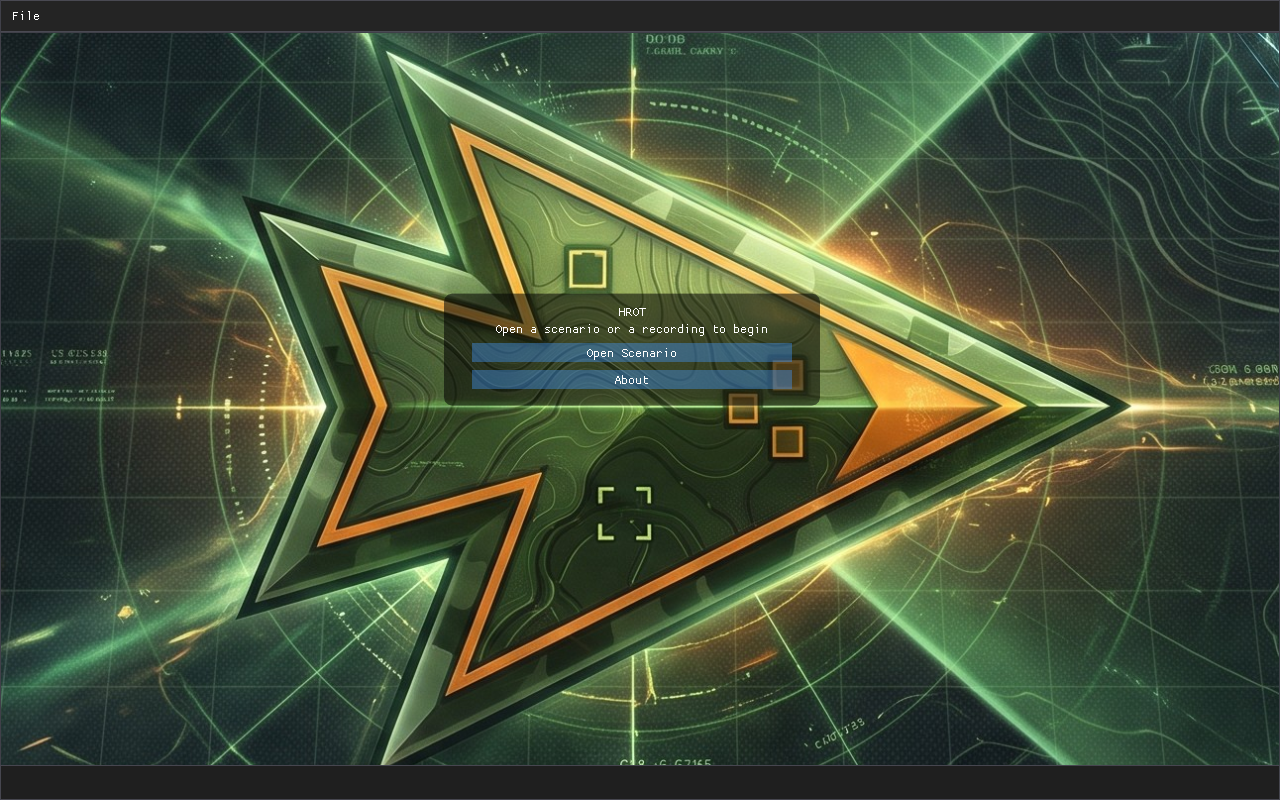
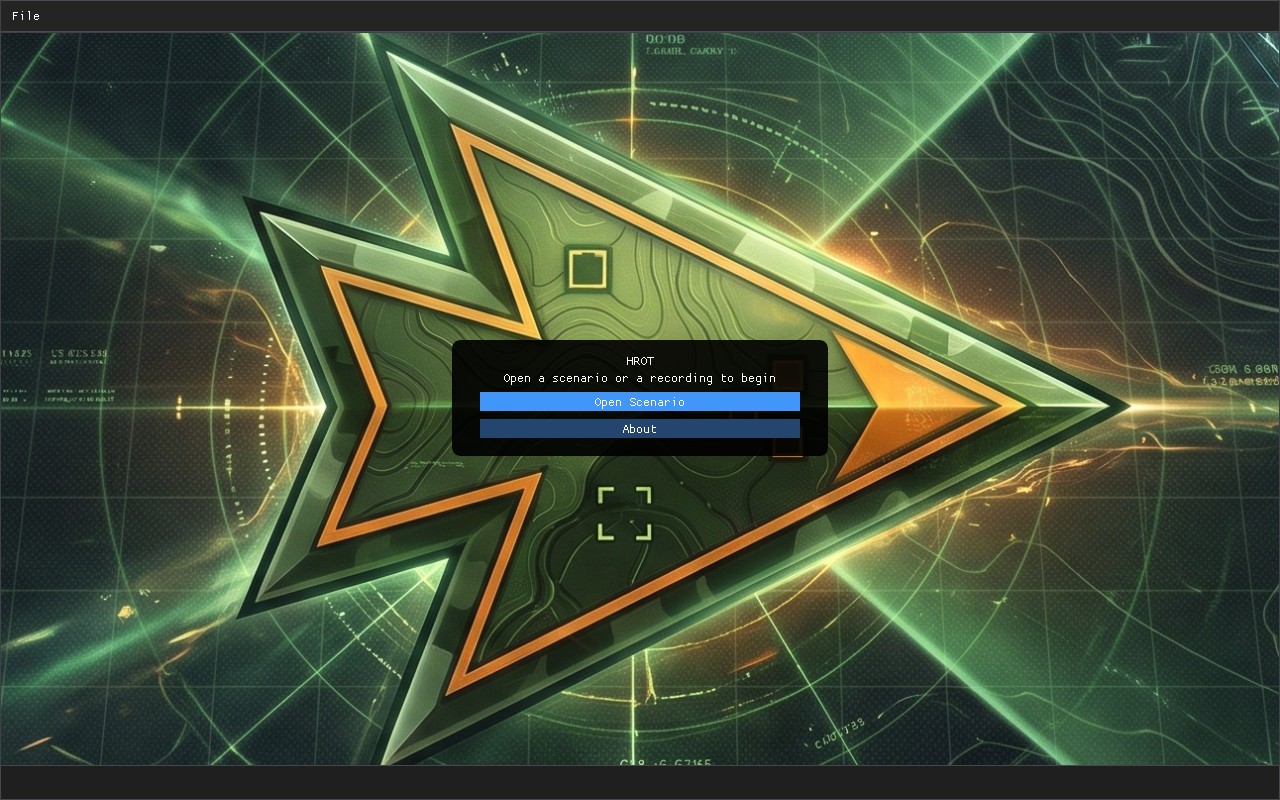
start screen: the menu panel centred on the visible surface (both axes, the status bar excluded) and near-opaque (alpha 0.9, opaque buttons) — user feedback on CE-4112
Claude-Session: https://claude.ai/code/session_01LUo7ZUvjqJtXwv1B39x11y

Changed region(s): [[0.3438, 0.3438, 0.6562, 0.5938]]

diff --git a/FDP/Engine/Fdp.Presentation/ImGui/WindowManager/StartSurfaceWindow.cs b/FDP/Engine/Fdp.Presentation/ImGui/WindowManager/StartSurfaceWindow.cs
@@ -27,9 +27,12 @@ public sealed class StartSurfaceWindow : ManagedWindow
     private readonly GlobalMenuRegistry _menu;
     private readonly Func<StartVariant> _variant;
 
-    public StartSurfaceWindow(GlobalMenuRegistry menu, Func<StartVariant> variant)
+    /// <param name="bottomInset">⭐ What covers the surface's bottom edge (the status bar's height, <c>wm.StatusBar.Height</c>): the menu panel is centred on
+    /// the VISIBLE area above it. Null = nothing covers it.</param>
+    public StartSurfaceWindow(GlobalMenuRegistry menu, Func<StartVariant> variant, Func<float>? bottomInset = null)
         : base(WindowId, "Start", WindowManager.StartPerspectiveName, WindowScope.PerspectiveBound)
     {
+        _bottomInset = bottomInset;
         _menu = menu ?? throw new ArgumentNullException(nameof(menu));
         _variant = variant ?? throw new ArgumentNullException(nameof(variant));
         IsOpen = true;
@@ -75,8 +78,9 @@ public sealed class StartSurfaceWindow : ManagedWindow
         return new CoverRect(scale, x, y, w, h, -x / w, -y / h, (winW - x) / w, (winH - y) / h);
     }
 
-    /// <summary>⭐ A dark band behind the menu block: the wallpaper's centre is bright (the arrow), so the white title and the buttons need it. One alpha.</summary>
-    public const float MenuBandAlpha = 0.55f;
+    /// <summary>⭐ A dark panel behind the menu block: the wallpaper's centre is bright (the arrow), so the white title and the buttons need it. One alpha.
+    /// 🔒 User, <c>2026-10-30</c>: <i>"the transparency need to be much less, too much of the background blends in the text and buttons"</i> — ⛔ was 0.55.</summary>
+    public const float MenuBandAlpha = 0.9f;
 
     private static nint _wallpaperTexture;
     private static int _wallpaperW, _wallpaperH;
@@ -110,40 +114,67 @@ public sealed class StartSurfaceWindow : ManagedWindow
         Gui.GetWindowDrawList().AddImage(wp.Id, pos, pos + size, new Vector2(c.U0, c.V0), new Vector2(c.U1, c.V1));
     }
 
+    /// <summary>The menu panel's padding around its items (px).</summary>
+    private const float PanelPadX = 28f, PanelPadY = 14f;
+
+    /// <summary>The block's height as last DRAWN (the title, the line, the buttons) — measured, so the centring is exact from the second frame on.</summary>
+    private float _blockHeight;
+    private readonly Func<float>? _bottomInset;
+
+    /// <summary>⭐ The menu panel's last drawn rect, in screen pixels (a rail checks it is centred on the surface).</summary>
+    public (Vector2 Min, Vector2 Max) PanelRect { get; private set; }
+
     protected override void DrawClientArea()
     {
         DrawWallpaper();   // ⭐ CE-4112: under everything the surface draws
         var model = Model();
-        var avail = Gui.GetContentRegionAvail();
         const float buttonWidth = 320f;
-        float blockHeight = Gui.GetTextLineHeightWithSpacing() * 2 + model.Buttons.Count * (Gui.GetFrameHeightWithSpacing() + 4f);
-        Gui.SetCursorPosY(Gui.GetCursorPosY() + Math.Max(0f, (avail.Y - blockHeight) * 0.4f));
+        // ⭐ the panel is sized by what it shows and centred on the WHOLE surface (⛔ was: the content width without the left padding, and 40 % down)
+        var wpos = Gui.GetWindowPos();
+        var wsize = Gui.GetWindowSize();
+        float visibleH = wsize.Y - Math.Max(0f, _bottomInset?.Invoke() ?? 0f);   // ⭐ centred on what is VISIBLE (the status bar covers the bottom)
+        float contentW = Math.Max(buttonWidth, Math.Max(Gui.CalcTextSize("HROT").X, Gui.CalcTextSize(model.Text).X));
+        float blockH = _blockHeight > 0f ? _blockHeight
+            : Gui.GetTextLineHeightWithSpacing() * 2 + model.Buttons.Count * (Gui.GetFrameHeightWithSpacing() + Gui.GetStyle().ItemSpacing.Y);
+        var min = new Vector2(MathF.Round(wpos.X + (wsize.X - contentW) / 2f - PanelPadX), MathF.Round(wpos.Y + (visibleH - blockH) / 2f - PanelPadY));
+        var max = new Vector2(min.X + contentW + 2 * PanelPadX, min.Y + blockH + 2 * PanelPadY);
+        PanelRect = (min, max);
+        Gui.GetWindowDrawList().AddRectFilled(min, max, (uint)Math.Round(MenuBandAlpha * 255f) << 24, 8f);
 
-        {
-            // the dark band behind the menu block (readability over the bright wallpaper)
-            var wpos = Gui.GetWindowPos();
-            float top = Gui.GetCursorScreenPos().Y - 12f;
-            float bandW = Math.Max(buttonWidth, Gui.CalcTextSize(model.Text).X) + 56f;
-            Gui.GetWindowDrawList().AddRectFilled(new Vector2(wpos.X + (avail.X - bandW) / 2f, top), new Vector2(wpos.X + (avail.X + bandW) / 2f, top + blockHeight + 24f),
-                (uint)Math.Round(MenuBandAlpha * 255f) << 24, 8f);
-        }
-        CenteredText("HROT");
-        CenteredText(model.Text);
+        float left = min.X + PanelPadX - wpos.X;   // window-local x of the panel's content
+        Gui.SetCursorPosY(min.Y + PanelPadY - wpos.Y);
+        float startY = Gui.GetCursorPosY();
+        CenteredText("HROT", left, contentW);
+        CenteredText(model.Text, left, contentW);
         Gui.Spacing();
+        // ⭐ opaque buttons: ImGui's default button colours are translucent, so the wallpaper showed through them
+        var style = Gui.GetStyle();
+        Gui.PushStyleColor(ImGuiCol.Button, Opaque(style.Colors[(int)ImGuiCol.Button]));
+        Gui.PushStyleColor(ImGuiCol.ButtonHovered, Opaque(style.Colors[(int)ImGuiCol.ButtonHovered]));
+        Gui.PushStyleColor(ImGuiCol.ButtonActive, Opaque(style.Colors[(int)ImGuiCol.ButtonActive]));
         foreach (var b in model.Buttons)
         {
-            Gui.SetCursorPosX(Math.Max(0f, (avail.X - buttonWidth) * 0.5f));
+            Gui.SetCursorPosX(left + (contentW - buttonWidth) / 2f);
             Gui.BeginDisabled(!b.Enabled);
             if (Gui.Button(b.Label, new Vector2(buttonWidth, 0f))) b.Invoke();
             Gui.EndDisabled();
             Gui.Spacing();
         }
+        Gui.PopStyleColor(3);
+        _blockHeight = Gui.GetCursorPosY() - startY - style.ItemSpacing.Y;
     }
 
-    private static void CenteredText(string text)
+    /// <summary>The colour made opaque: blended over the panel's own near-black (what the eye saw through it), so the hue stays the style's.</summary>
+    private static Vector4 Opaque(Vector4 c)
     {
-        float w = Gui.CalcTextSize(text).X;
-        Gui.SetCursorPosX(Math.Max(0f, (Gui.GetContentRegionAvail().X - w) * 0.5f));
+        const float under = 0.06f;
+        float a = c.W;
+        return new Vector4(c.X * a + under * (1f - a), c.Y * a + under * (1f - a), c.Z * a + under * (1f - a), 1f);
+    }
+
+    private static void CenteredText(string text, float left, float width)
+    {
+        Gui.SetCursorPosX(left + (width - Gui.CalcTextSize(text).X) / 2f);
         Gui.TextUnformatted(text);
     }
 }

diff --git a/Hrot/Engine/Hrot.Presentation.Tests/TheStartScreenShowsTheWallpaperTests.cs b/Hrot/Engine/Hrot.Presentation.Tests/TheStartScreenShowsTheWallpaperTests.cs
@@ -27,7 +27,8 @@ public sealed class TheStartScreenShowsTheWallpaperTests
         using var frame = UiFrameHarness.Begin();
         var wm = new WM(new IconAtlas(nint.Zero, 1, 1, 16f));
         wm.GlobalMenu.RegisterItem("File/Open Scenario", () => { }, allowedInIdle: true);
-        wm.RegisterWindow(new StartSurfaceWindow(wm.GlobalMenu, () => StartVariant.Actions));
+        var surface = new StartSurfaceWindow(wm.GlobalMenu, () => StartVariant.Actions, () => wm.StatusBar.Height);
+        wm.RegisterWindow(surface);
         wm.SwitchPerspective(WM.StartPerspectiveName);
         Assert.True(wm.IsStartShowing);
 
@@ -55,6 +56,18 @@ public sealed class TheStartScreenShowsTheWallpaperTests
                 for (int x = (int)(size.X * 0.35f); x < size.X * 0.65f; x++)
                 { var p = Raylib.GetImageColor(shot, x, y); if (p.R > 235 && p.G > 235 && p.B > 235) white++; }
             Assert.True(white >= 40, $"the menu text is drawn over the wallpaper ({white} near-white pixels)");
+
+            // ⭐ 2026-10-30 (user: "seem off center" · "the transparency need to be much less") — the panel is centred on the SURFACE (both axes, ±1.5 px) and
+            //   opaque enough that the wallpaper does not show through its padding (the arrow under it is bright)
+            var (pmin, pmax) = surface.PanelRect;
+            Assert.InRange((pmin.X + pmax.X) / 2f - (pos.X + size.X / 2f), -1.5f, 1.5f);
+            Assert.True(wm.StatusBar.Height > 0f, "the status bar is drawn here, so the centring must account for it");
+            Assert.InRange((pmin.Y + pmax.Y) / 2f - (pos.Y + (size.Y - wm.StatusBar.Height) / 2f), -1.5f, 1.5f);   // centred on the VISIBLE area
+            foreach (var (px, py) in new[] { (pmin.X + 12f, pmax.Y - 5f), (pmax.X - 12f, pmin.Y + 5f), (pmin.X + 5f, (pmin.Y + pmax.Y) / 2f) })
+            {
+                var p = Raylib.GetImageColor(shot, (int)px, (int)py);
+                Assert.True(Math.Max(p.R, Math.Max(p.G, p.B)) <= 40, $"the panel at ({px:0},{py:0}) lets the wallpaper through: {p.R},{p.G},{p.B}");
+            }
 
             string dir = Environment.GetEnvironmentVariable("HROT_RAIL_SHOTS") is { Length: > 0 } d ? d : Path.Combine(Path.GetTempPath(), "hrot-start");
             Directory.CreateDirectory(dir);

diff --git a/Hrot/Runner/Hrot.ClusterRunner/Presentation/LocalWindowController.cs b/Hrot/Runner/Hrot.ClusterRunner/Presentation/LocalWindowController.cs
@@ -169,7 +169,7 @@ internal sealed class LocalWindowController
         if (real.Count > 0 && real.All(s => s is Hrot.ReplayBrowser.ReplayBrowserSubsystem)) return;
 
         var gate = new StartGate(wm);
-        var surface = new StartSurfaceWindow(wm.GlobalMenu, () => gate.Variant);
+        var surface = new StartSurfaceWindow(wm.GlobalMenu, () => gate.Variant, () => wm.StatusBar.Height);
         wm.RegisterWindow(surface);
         // ⭐ Exit: the same path as the window's [X] (the frame loop asks every exit guard). Allowed in Idle — the Start surface offers it.
         wm.GlobalMenu.RegisterItem("File/Exit", RequestExit, allowedInIdle: true);
